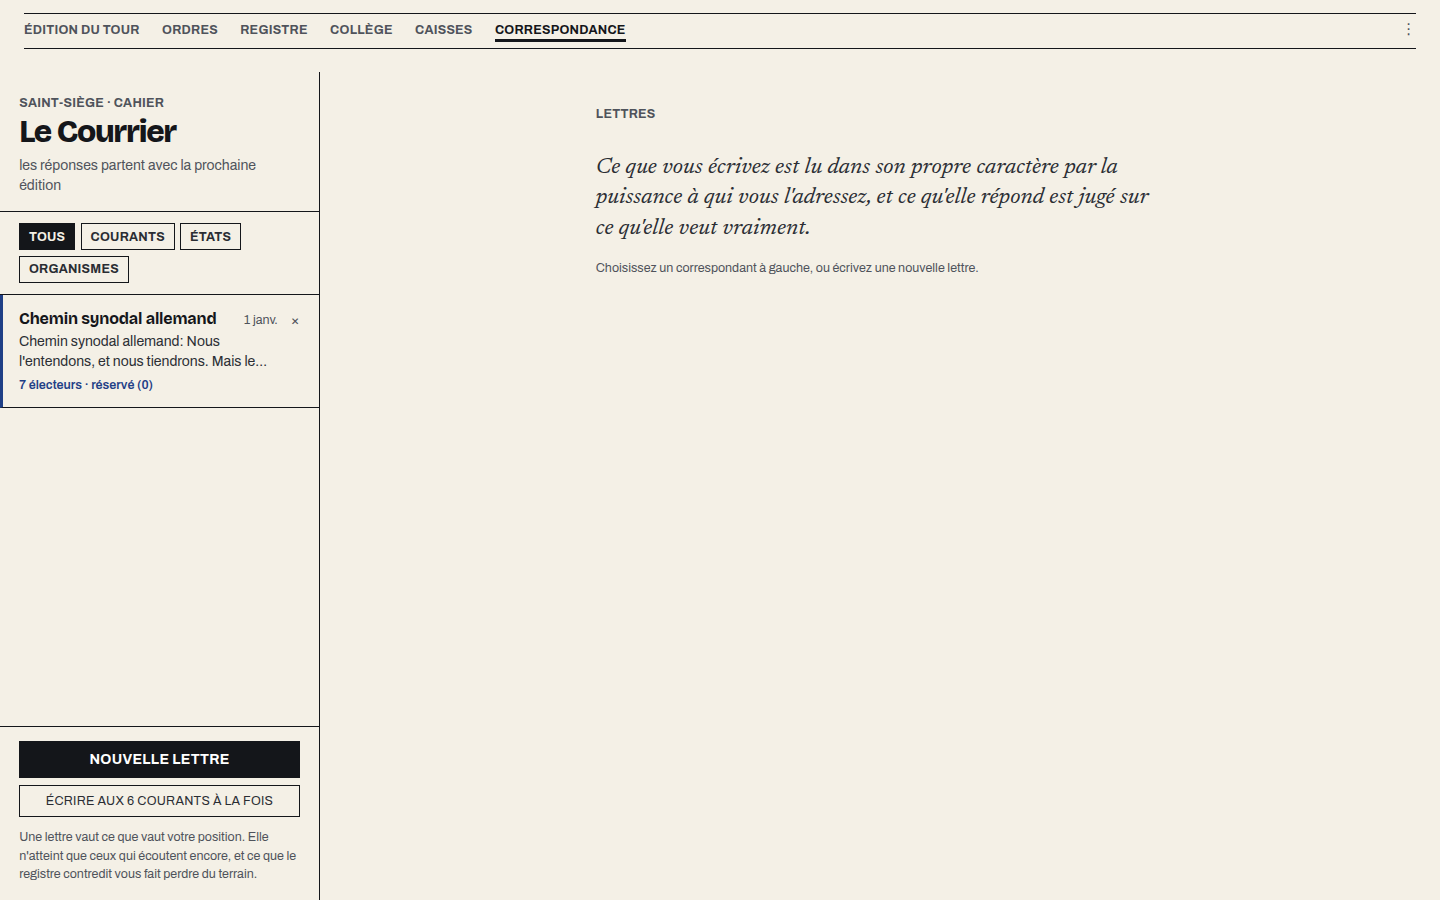
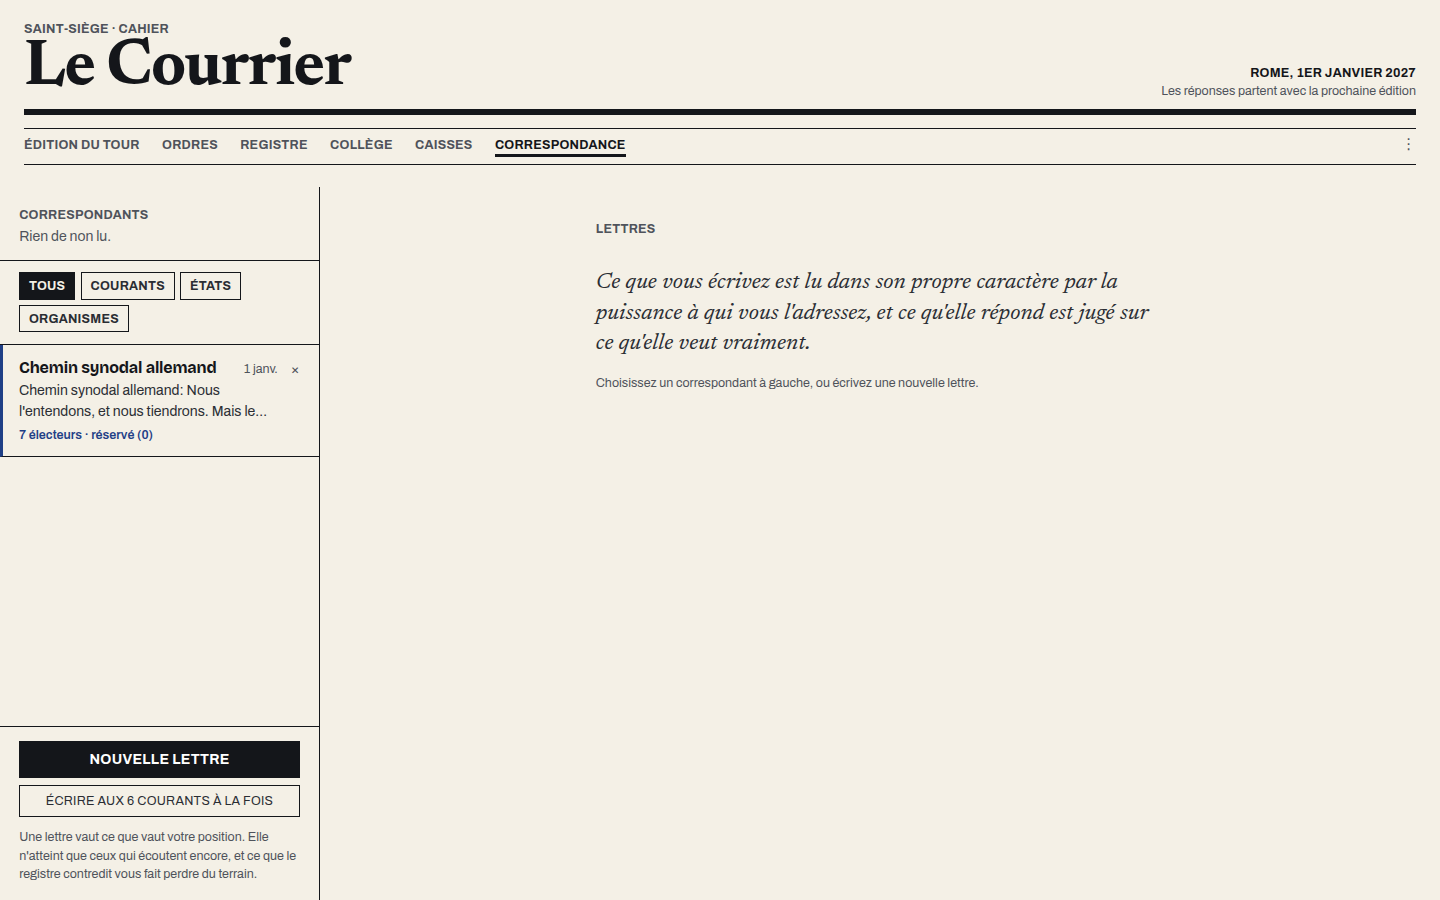
web : plus d'appel au registre de l'amont à chaque chargement
Le portail ouvrait une connexion à un nœud communautaire à chaque
chargement, pour choisir d'où descendraient des tuiles de carte que ce jeu
ne montre jamais — la carte ne vit que dans l'éditeur de scénario, derrière
le menu ⋮. C'était un appel au registre de l'amont, plus un battement de
cœur qui comptait le joueur parmi les utilisateurs d'un nœud qu'il
n'utilisait pas. resolveContentUrl résout le registre lui-même, à la
première tuile réellement demandée.

Et une correction à ce que j'avais noté : j'avais écrit que le verdict
« bloqué » était inatteignable depuis une trésorerie saine. C'est faux, et
il l'est pour la raison qui fait ce jeu. Trois contraintes franchissent
0,90 : le budget vide, une portée administrative nulle, et l'absence de
forces — et c'est la troisième qui le rend vivant ici. « Lever une armée et
envahir l'Italie » est bloqué, forces 0,95, pendant que « réformer la
Curie » n'est que contraint. Le vote plafonne à 0,88 et l'opposition à 0,70,
à dessein : le Collège contraint un pape régnant, il ne le bloque pas. Un
test garde les deux bouts.

Claude-Session: https://claude.ai/code/session_011tM9vCZEszuasjUPEwFGiz

Changed region(s): [[0.0, 0.0, 1.0, 0.4978]]

diff --git a/src/runtime/realityCheck.test.js b/src/runtime/realityCheck.test.js
@@ -334,3 +334,30 @@ test("an order about debt or a funded liability meets the budget it draws on", (
   assert.ok(tax.domains.includes("tax"));
   assert.ok(!tax.constraints.some((c) => c.factor === "budget"), "raising revenue is not a new expense");
 });
+
+// J'avais noté que le verdict « bloqué » était inatteignable depuis une
+// trésorerie saine, et je m'étais trompé : il l'est, et pour la raison qui fait
+// ce jeu. Le pape n'a pas d'armée. Trois contraintes seulement franchissent
+// 0,90 — le budget vide (0,92), une portée administrative nulle (0,90 à
+// l'extrême), et l'absence de forces (0,95) — et c'est la troisième qui rend
+// « bloqué » vivant ici : « pas d'armée, un demi-kilomètre carré ».
+//
+// Le vote plafonne à 0,88 et l'opposition à 0,70, à dessein : le Collège
+// contraint un pape régnant, il ne le bloque pas. Ce test garde les deux.
+test("le pape n'a pas d'armée : un ordre militaire est bloqué, une réforme n'est que contrainte", () => {
+  const economie = {
+    treasury: 5e5, revenue: 1.2e6, spending: 1.1e6,
+    administrativeReach: 72, legitimacy: 70, fiscalCredibility: 65, debt: 0, gdp: 1e7,
+  };
+  const ctx = { playerPolity: "Saint-Siège", economy: economie, world: { organizations: [], intents: [], units: [] }, jumpDays: 30 };
+  const juge = (texte) => assessAction({ id: "x", kind: "action", status: "planned", text: texte, title: texte }, ctx);
+
+  const armee = juge("Lever une armée et envahir l'Italie.");
+  assert.equal(armee.verdict, "blocked", "une trésorerie saine ne fait pas apparaître des soldats");
+  assert.ok(armee.constraints.some((c) => c.factor === "forces" && c.severity >= 0.9));
+
+  // Et ce qu'un pape PEUT faire n'est pas bloqué pour autant : c'est contraint,
+  // ce qui est le verdict qui porte tout le jeu.
+  assert.equal(juge("Réformer la Curie romaine.").verdict, "constrained");
+  assert.equal(juge("Vendre le patrimoine immobilier pour les pauvres.").verdict, "constrained");
+});

diff --git a/src/runtime/web/homePage.js b/src/runtime/web/homePage.js
@@ -30,8 +30,6 @@
 //     pas d'application de bureau pour ce jeu, et le lien menait aux versions de
 //     l'amont.
 
-import { connectBestNode } from "./nodeConnect.js";
-
 const ENTERED_KEY = "oh:entered";
 
 // Le papier du journal, et rien d'autre. Tout est en tokens : une seule couleur
@@ -127,9 +125,13 @@ export const showHomePage = () => {
   document.body.append(overlay); // posé tout de suite — pas d'éclair du jeu derrière
   entrerBouton.focus();
 
-  // La connexion à un nœud reste utile à l'éditeur de scénario, qui lui affiche
-  // une carte. Elle tourne en fond et ne retient plus personne à la porte.
-  connectBestNode().catch(() => {});
+  // Aucune connexion à un nœud n'est ouverte ici. Elle l'était à chaque
+  // chargement, pour choisir d'où descendraient des tuiles de carte que ce jeu
+  // ne montre jamais : un appel au registre de l'amont, et un battement de cœur
+  // qui comptait le joueur parmi les utilisateurs d'un nœud communautaire qu'il
+  // n'utilisait pas. resolveContentUrl (web/contentTrust.js) résout le registre
+  // lui-même, à la première tuile réellement demandée — c'est-à-dire quand
+  // l'éditeur de scénario s'ouvre, et jamais avant.
 };
 
 // Si cette porte doit s'ouvrir au chargement (une fois franchie, plus pour cet

diff --git a/src/runtime/web/index.js b/src/runtime/web/index.js
@@ -11,7 +11,6 @@
 import { installWebApiRouter } from "./router.js";
 import { ensureSeeded } from "./libraryStore.js";
 import { showHomePage, shouldShowHome } from "./homePage.js";
-import { connectBestNode } from "./nodeConnect.js";
 
 // Everything the player owns lives in this origin's storage: the games and
 // scenarios in IndexedDB, and the ~215MB of map archives in the preload Cache.
@@ -46,8 +45,10 @@ export const installWebBackend = async () => {
   // Home page: connect to the best content node on entry.
   // Once the player has entered this tab session, just connect in the background.
   try {
+    // Plus de connexion à un nœud au chargement : elle allait chercher d'où
+    // descendraient des tuiles de carte que ce jeu ne montre jamais.
+    // resolveContentUrl résout le registre à la première tuile demandée.
     if (shouldShowHome()) showHomePage();
-    else connectBestNode().catch(() => {});
   } catch (error) {
     console.warn("Home page failed:", error.message);
   }

diff --git a/design/rendu/bureau/INDEX.md b/design/rendu/bureau/INDEX.md
@@ -1,6 +1,6 @@
 # Rendu réel — bureau (1440×900)
 
-Capturé le 2026-09-11 14:24 · commit 5fe9890 · source http://localhost:4173
+Capturé le 2026-09-11 14:36 · commit 1ef15e6 · source http://localhost:4173
 
 Ces images sont le rendu réel du jeu dans un navigateur, pas une maquette.
 Une session sans navigateur (Claude Design) doit les lire avant de juger le graphisme.
@@ -14,12 +14,12 @@ Une session sans navigateur (Claude Design) doit les lire avant de juger le grap
 - `05-edition-du-tour.jpg` — capturé, 223 Ko
 - `06-ordres.png` — capturé, 128 Ko
 - `07-registre.png` — capturé, 134 Ko
-- `08-college.png` — capturé, 360 Ko
+- `08-college.png` — capturé, 365 Ko
 - `09-caisses.png` — capturé, 131 Ko
-- `10-correspondance.png` — capturé, 84 Ko
-- `11-courrier-ouvert.png` — capturé, 186 Ko
+- `10-correspondance.png` — capturé, 92 Ko
+- `11-courrier-ouvert.png` — capturé, 176 Ko
 
-Total du lot : 1892 Ko.
+Total du lot : 1895 Ko.
 
 ## Polices
 
